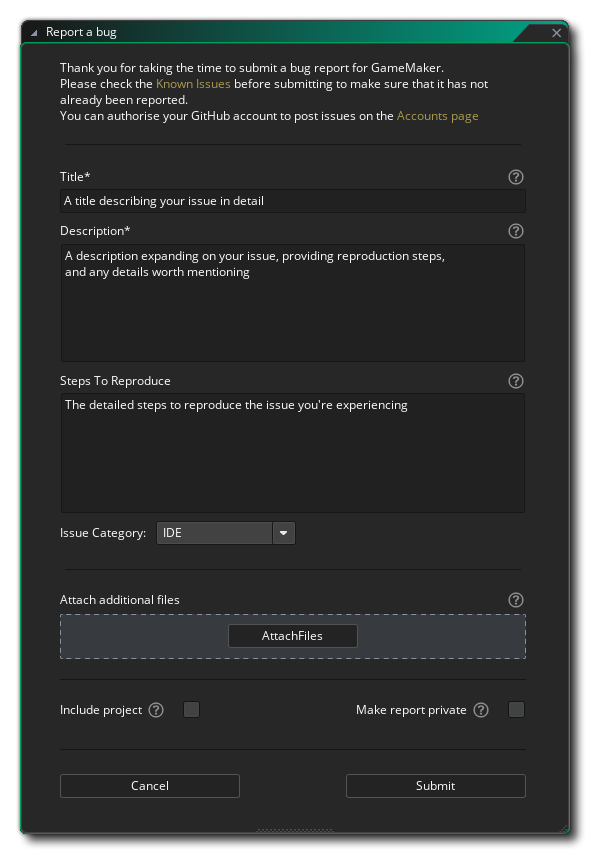
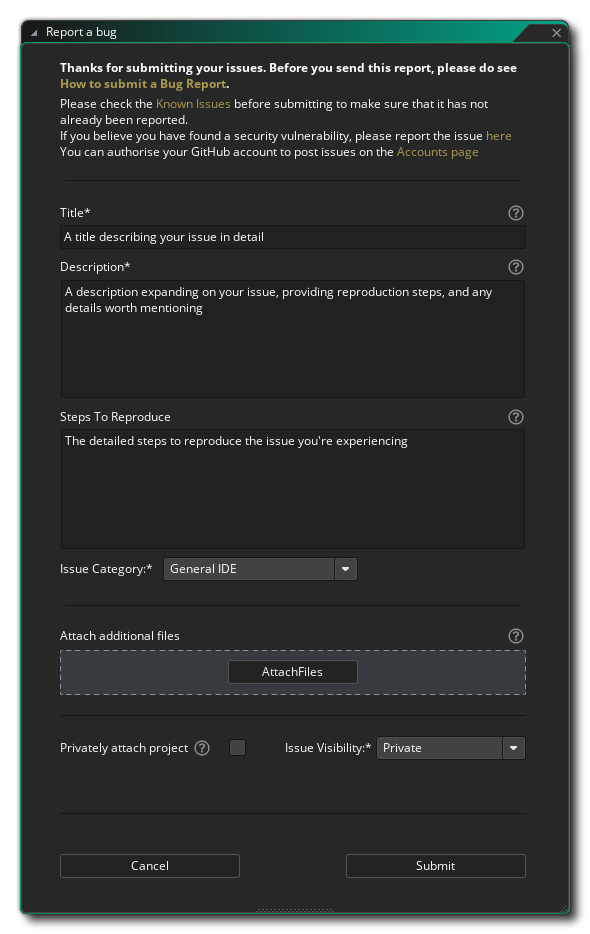
docs(general): Add a link for reporting "Security Issues" to the information at the top YoYoGames/GameMaker-Bugs#5567
* Updated description and screenshot

diff --git a/Manual/contents/IDE_Navigation/Menus/The_Help_Menu.htm b/Manual/contents/IDE_Navigation/Menus/The_Help_Menu.htm
@@ -25,9 +25,11 @@
       <img class="center" height="324" src="../../assets/Images/IDE_Input/Help_Menu_Bug_Report_Packaging_Message.png" width="460" />
     </li>
     <li><strong>Report A <span data-keyref="GameMaker Name">GameMaker</span> Bug</strong> - You can use this option to report bugs directly <span>from within the IDE, in case you find any bugs or have any issues while using <span data-keyref="GameMaker Name">GameMaker</span></span>. You will also be redirected to this window when you click <strong>Report</strong> after an <a href="../../Setting_Up_And_Version_Information/Error_Reporting.htm">IDE error</a> occurred. If you&#39;re not signed in, a message is shown to ask you to <strong>Sign In/Register</strong>. It&#39;s also possible to <strong>Continue Anonymously</strong>.<br />
-      <img class="center" src="../../assets/Images/IDE_Input/Help_Menu_Report_Bug_Anonymous.png" />If you are using a GameMaker account, it is recommended to connect your GitHub account to your GM account via the <a href="https://gamemaker.io/account/dashboard">GameMaker Account Dashboard</a>. This will ensure your submitted reports are tied to your account so you can post updates and receive notifications from our team.<br />
+      <img class="center" src="../../assets/Images/IDE_Input/Help_Menu_Report_Bug_Anonymous.png" style="cursor: nwse-resize;" />If you are using a <span data-keyref="GameMaker Name">GameMaker</span> account, it is recommended to connect your GitHub account to your GM account via the <a href="https://gamemaker.io/account/dashboard">GameMaker Account Dashboard</a>. This will ensure your submitted reports are tied to your account so you can post updates and receive notifications from our team.<br />
       <br />
-      In the <strong>Report a Bug</strong> window you fill in a <strong>Title</strong> and <strong>Description</strong> and optionally the <strong>Steps To Reproduce</strong> the issue. It&#39;s also possible to assign an <strong>Issue Category</strong> (either <strong>General IDE</strong>, <strong>Building A Project</strong>, <strong>Crash/Unstable Message</strong>, <strong>Editing Your Assets</strong>, <strong>In-Game</strong> or <strong>Manual Content</strong>), <strong>Attach additional files</strong> that might be useful, <strong>Include</strong><strong> the</strong> <strong>project</strong> and <strong>Make</strong><strong> the</strong> <strong>report private</strong>.
+      In the <strong>Report a Bug</strong> window you fill in a <strong>Title</strong> and <strong>Description</strong> and optionally the <strong>Steps To Reproduce</strong> the issue as well as assign the <strong>Issue Category</strong> (either <strong>General IDE</strong>, <strong>Building A Project</strong>, <strong>Crash/Unstable Message</strong>, <strong>Editing Your Assets</strong>, <strong>In-Game (GMS2 Runtime) </strong>or <strong>Manual Content</strong>). You also have the option to <strong>Attach additional files</strong> that might be useful, <strong>Include</strong><strong> the</strong> <strong>project</strong> and to <strong>Privately attach</strong> the project. Finally, you should set the issue <strong>Visibility</strong>, either <strong>Public</strong> or <strong>Private</strong>.<br />
+      <br />
+      As mentioned in the window, you should first check the list of <a href="https://github.com/YoYoGames/GameMaker-Bugs/issues">Known Issues</a> before submitting. You also have the possibility to report a <a href="https://github.com/YoYoGames/GameMaker-Bugs/security/policy">security vulnerability</a>.
       <p class="note"><span data-conref="../../assets/snippets/Tag_note.hts"> </span> Any files attached via the Bug Reporter are uploaded privately, only accessible by the <span data-keyref="GameMaker Name">GameMaker</span> team, even when the bug is public.</p>
       <img class="center" src="../../assets/Images/IDE_Input/Help_Menu_Report_Bug_Window.png" />You can choose to include the current project by ticking the <strong>Include project</strong> checkbox. It is highly recommended that you provide a sample project that shows the issue as it provides important information to the <span data-keyref="GameMaker Name">GameMaker</span> team about your issue. A message will be shown asking to include the current package when you select a category related to the runner and the checkbox isn&#39;t ticked.<br />
       <br />
